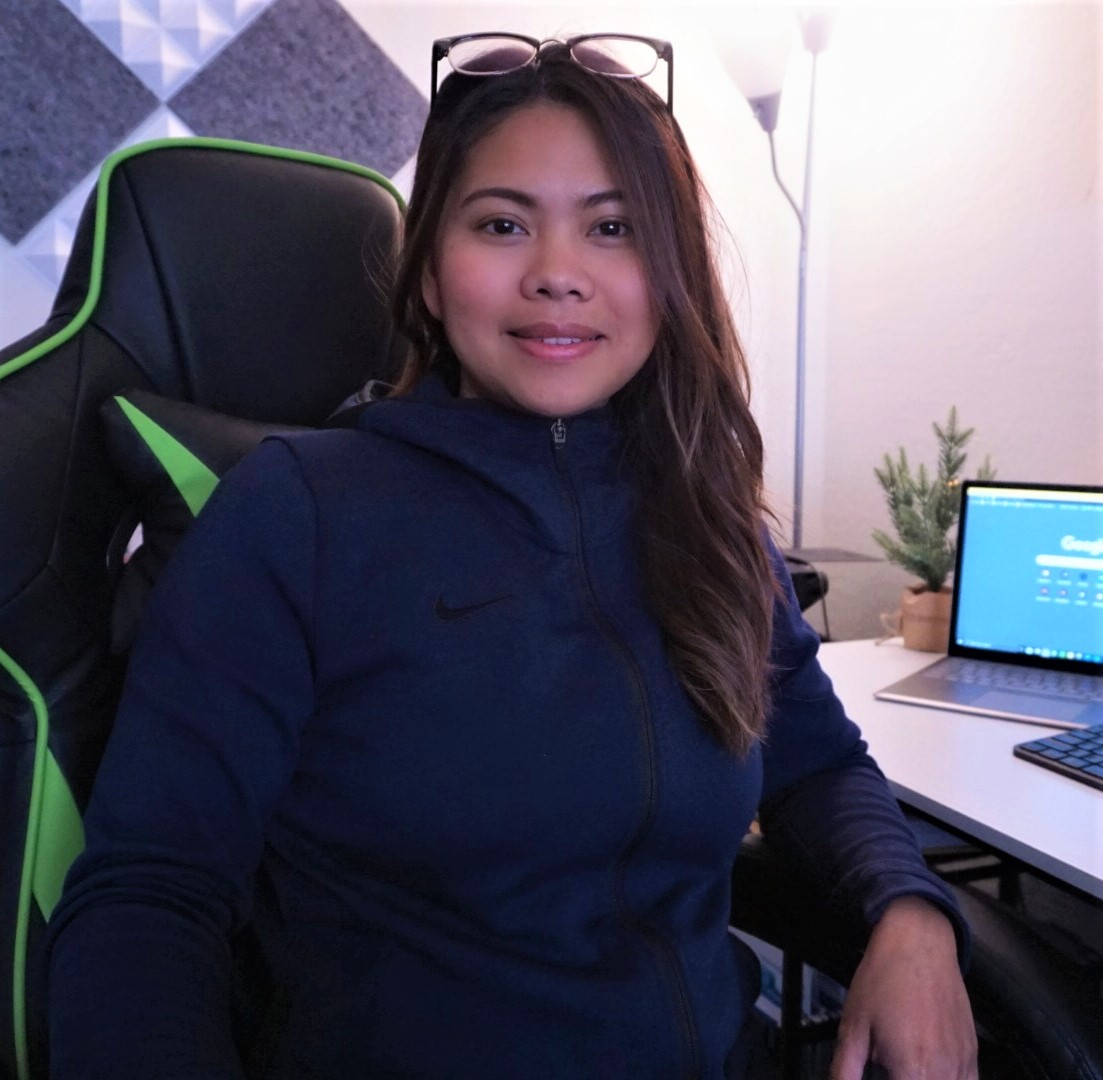
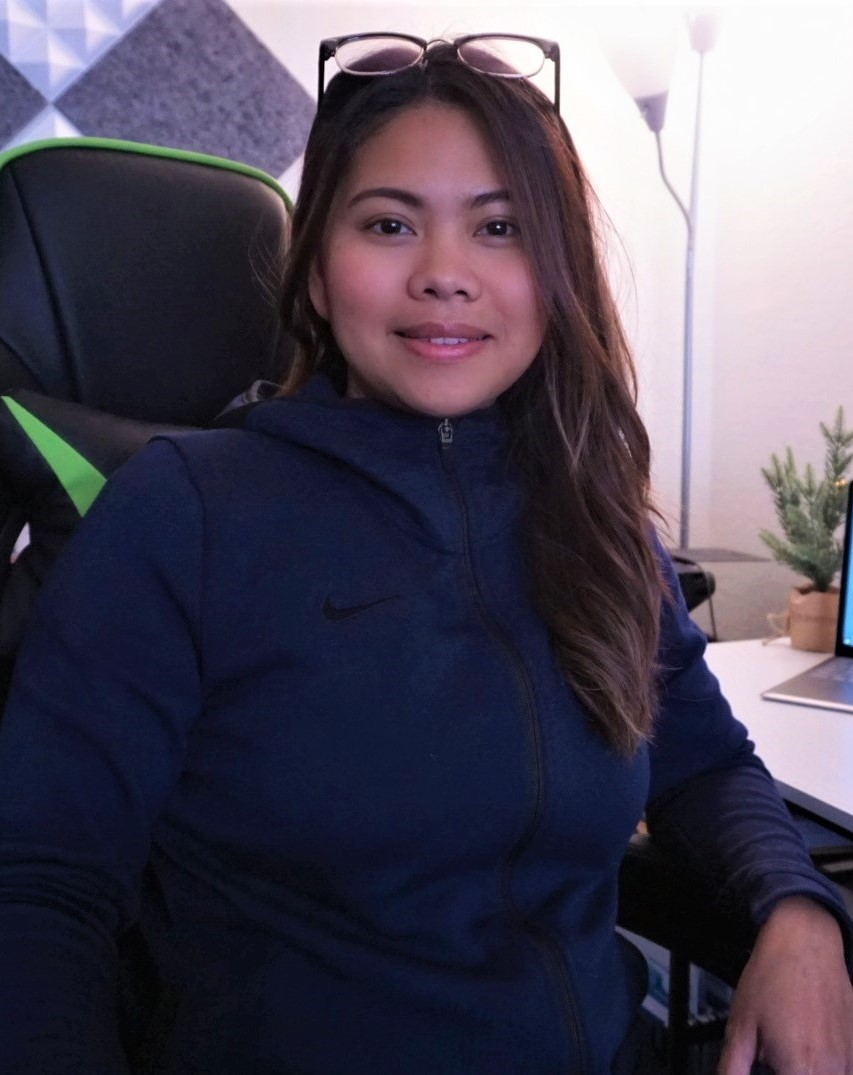
Made about me section responsive

diff --git a/src/styles.css b/src/styles.css
@@ -149,18 +149,17 @@ section {
   display: flex;
   align-items: center;
   justify-content: space-between;
-  width:75%;
+  width: 75%;
   text-align: center;
   margin: 0 auto;
 }
 
 .about-content .about-photo {
-
 }
 
 .about-content .about-text {
   padding: 20px 50px 20px 50px;
-  text-align:justify;
+  text-align: justify;
 }
 
 .about-content .about-text p {
@@ -171,12 +170,13 @@ section {
 }
 
 .about-content img {
-  height: 400px;
-  width: 400px;
+  height: 600px;
+  width: 500px;
   object-fit: cover;
-  border-radius: 20px;
-  padding: 0 25px;
+  border-radius: 50px;
+  box-shadow: 9px 9px 15px #b1acac;
   display: inline;
+  text-align: center;
 }
 
 /*
@@ -191,20 +191,37 @@ footer {
 */
 
 /* media query start */
-
-@media (max-width: 1140px) {
+@media (max-width: 1400px) {
   .about-content {
-  display: block;
-  flex-wrap: wrap;
-  width: 75%;
-  text-align: center;
+    display: block;
+    width: 90%;
+    text-align: center;
+    margin: 0 auto;
+    padding: 0 auto;
+  }
+}
+@media (max-width: 670px) {
+  .about-content img {
+    border-radius: 50px;
+    box-shadow: 9px 9px 15px #b1acac;
+    display: inline;
+    width: 85%;
+    height: auto;
+    text-align: center;
+    margin: 0 auto;
+  }
+  .about-content .about-text p {
   margin: 0 auto;
+  display: inline;
+  line-height: 5px;
+  font-size: 10px;
+  text-align: center;
 }
 
-
+.about-content .about-text {
+  padding: 20px 25px 20px 25px;
 }
 
-@media (max-width: 700px) {
   .navbar .menu {
     position: fixed;
     height: 100vh;
@@ -214,7 +231,6 @@ footer {
     background: rgba(0, 0, 0, 0.95);
     text-align: center;
     padding-top: 85px;
-    border-radius: 10px;
     transition: all 0.3s ease;
   }
 
@@ -241,9 +257,20 @@ footer {
     display: inline-block;
     margin: 20px 0;
     font-size: larger;
+      transition: 0.4s;
   }
+  .navbar .header .menu a:hover {
+  color: #fd2155;
+  cursor: pointer;
+}
 
   .home .home-content {
     font-size: smaller;
   }
+
 }
+
+
+
+@media (max-width: 700px) {
+

diff --git a/index.html b/index.html
@@ -56,24 +56,32 @@
       </h1>
       <div class="about-content">
         <div class="about-photo">
-          <img src="img/default photo.jpg" alt="Default Photo" width="300">
+          <img src="img/default photo.jpg" alt="Default Photo" >
         </div>
         <div class="about-text">
           <p class="text">
-            Hi! My name is Ahriane! I am a freelance web developer. I found myself coding one day out of frustration
+            👋 Hi! My name is Ahriane! I am a freelance web developer. I found myself coding one day out of frustration
             of
             having business ideas that couldn't
-            make possible without knowing how to write a line of code.
+            be possible without knowing how to write a line of code.
             Although I am versatile by nature, I find fulfillment in web design ♥.
            <br />
            <br />
             I am a firm believer that you should do what you love doing (I learned that the hard way), so here I am
             now,
             typing away.
-            I am in pursuit of a new career that I love doing - bringing ideas to life.
+            I am in pursuit of a new career that I love doing - bringing ideas to life 🌠.
             I love talking to people about designs and building it for them. It gives me a great sense of fulfillment
             when I
             see them happy with the outcome.
+            <br />
+            <br />
+            When I'm not in front of a computer, you'll find me at a nearby kickboxing gym in my area 🥊.
+            My other hobbies and interests are 🎨 painting, ✏ drawing, 📸 photography, 🎵 playing the piano and guitar, and 🎥 watching
+            movies.
+            <br />
+            <br />
+            Hit me up to collab on a project or simply because you're a coffee person like me ☕
           </p>
         </div>
       </div>
